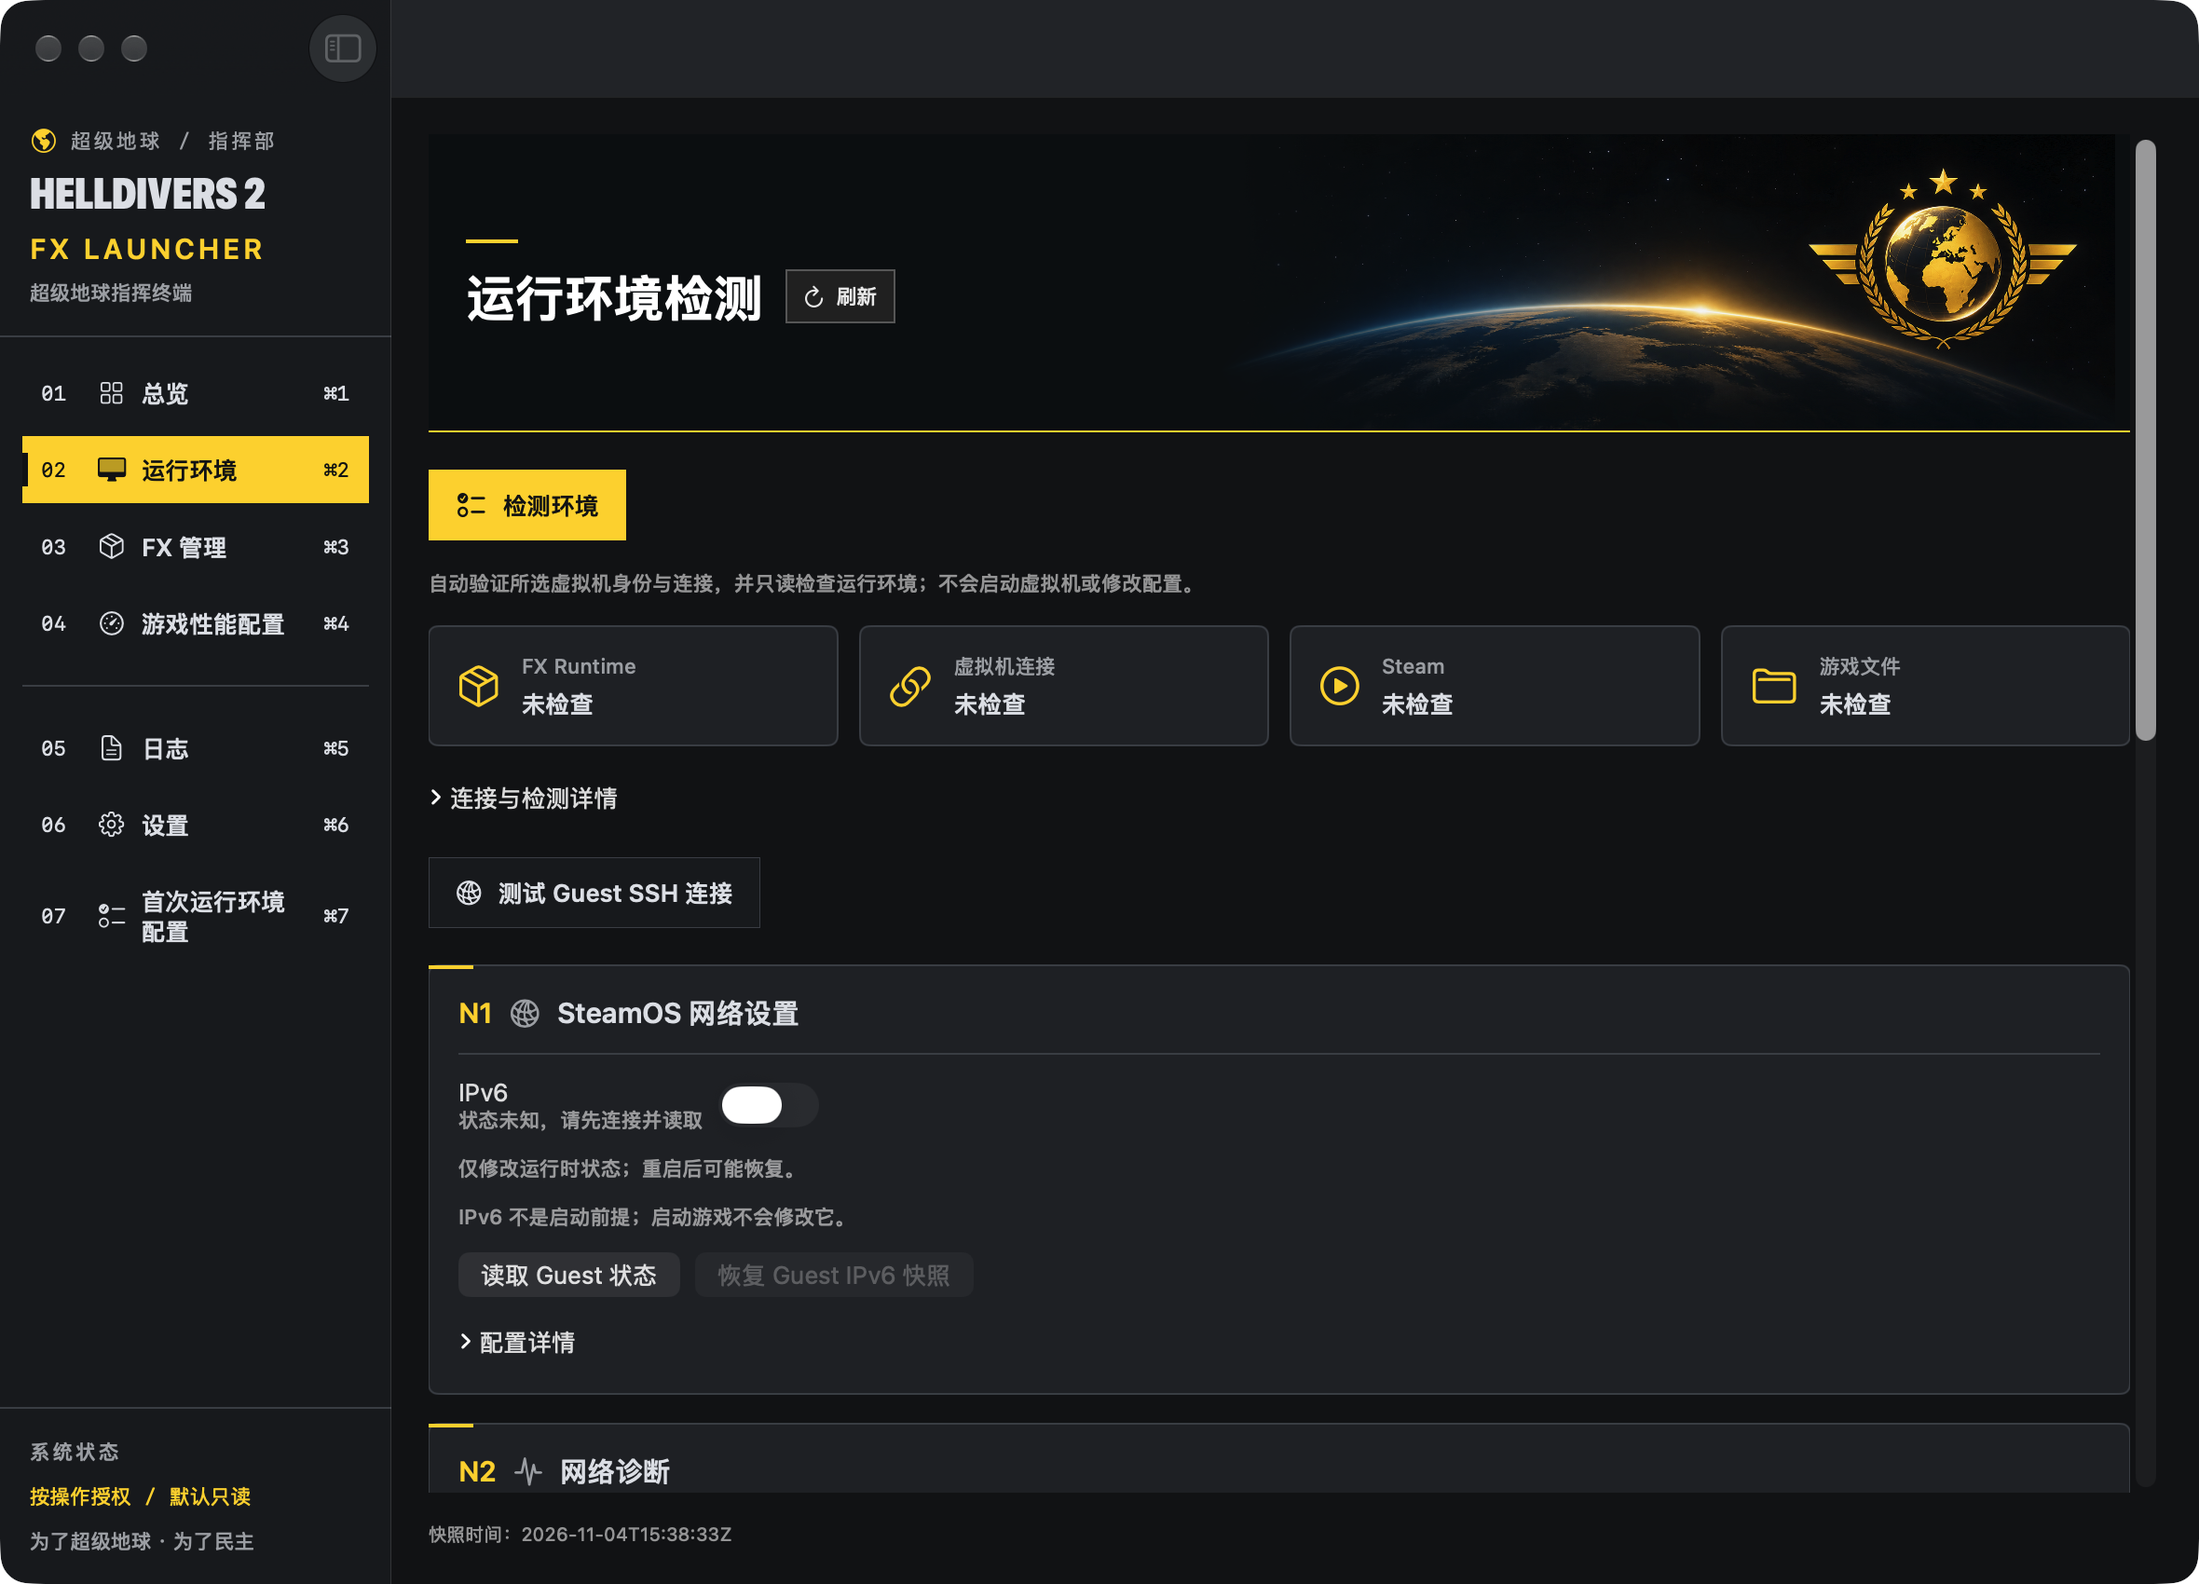
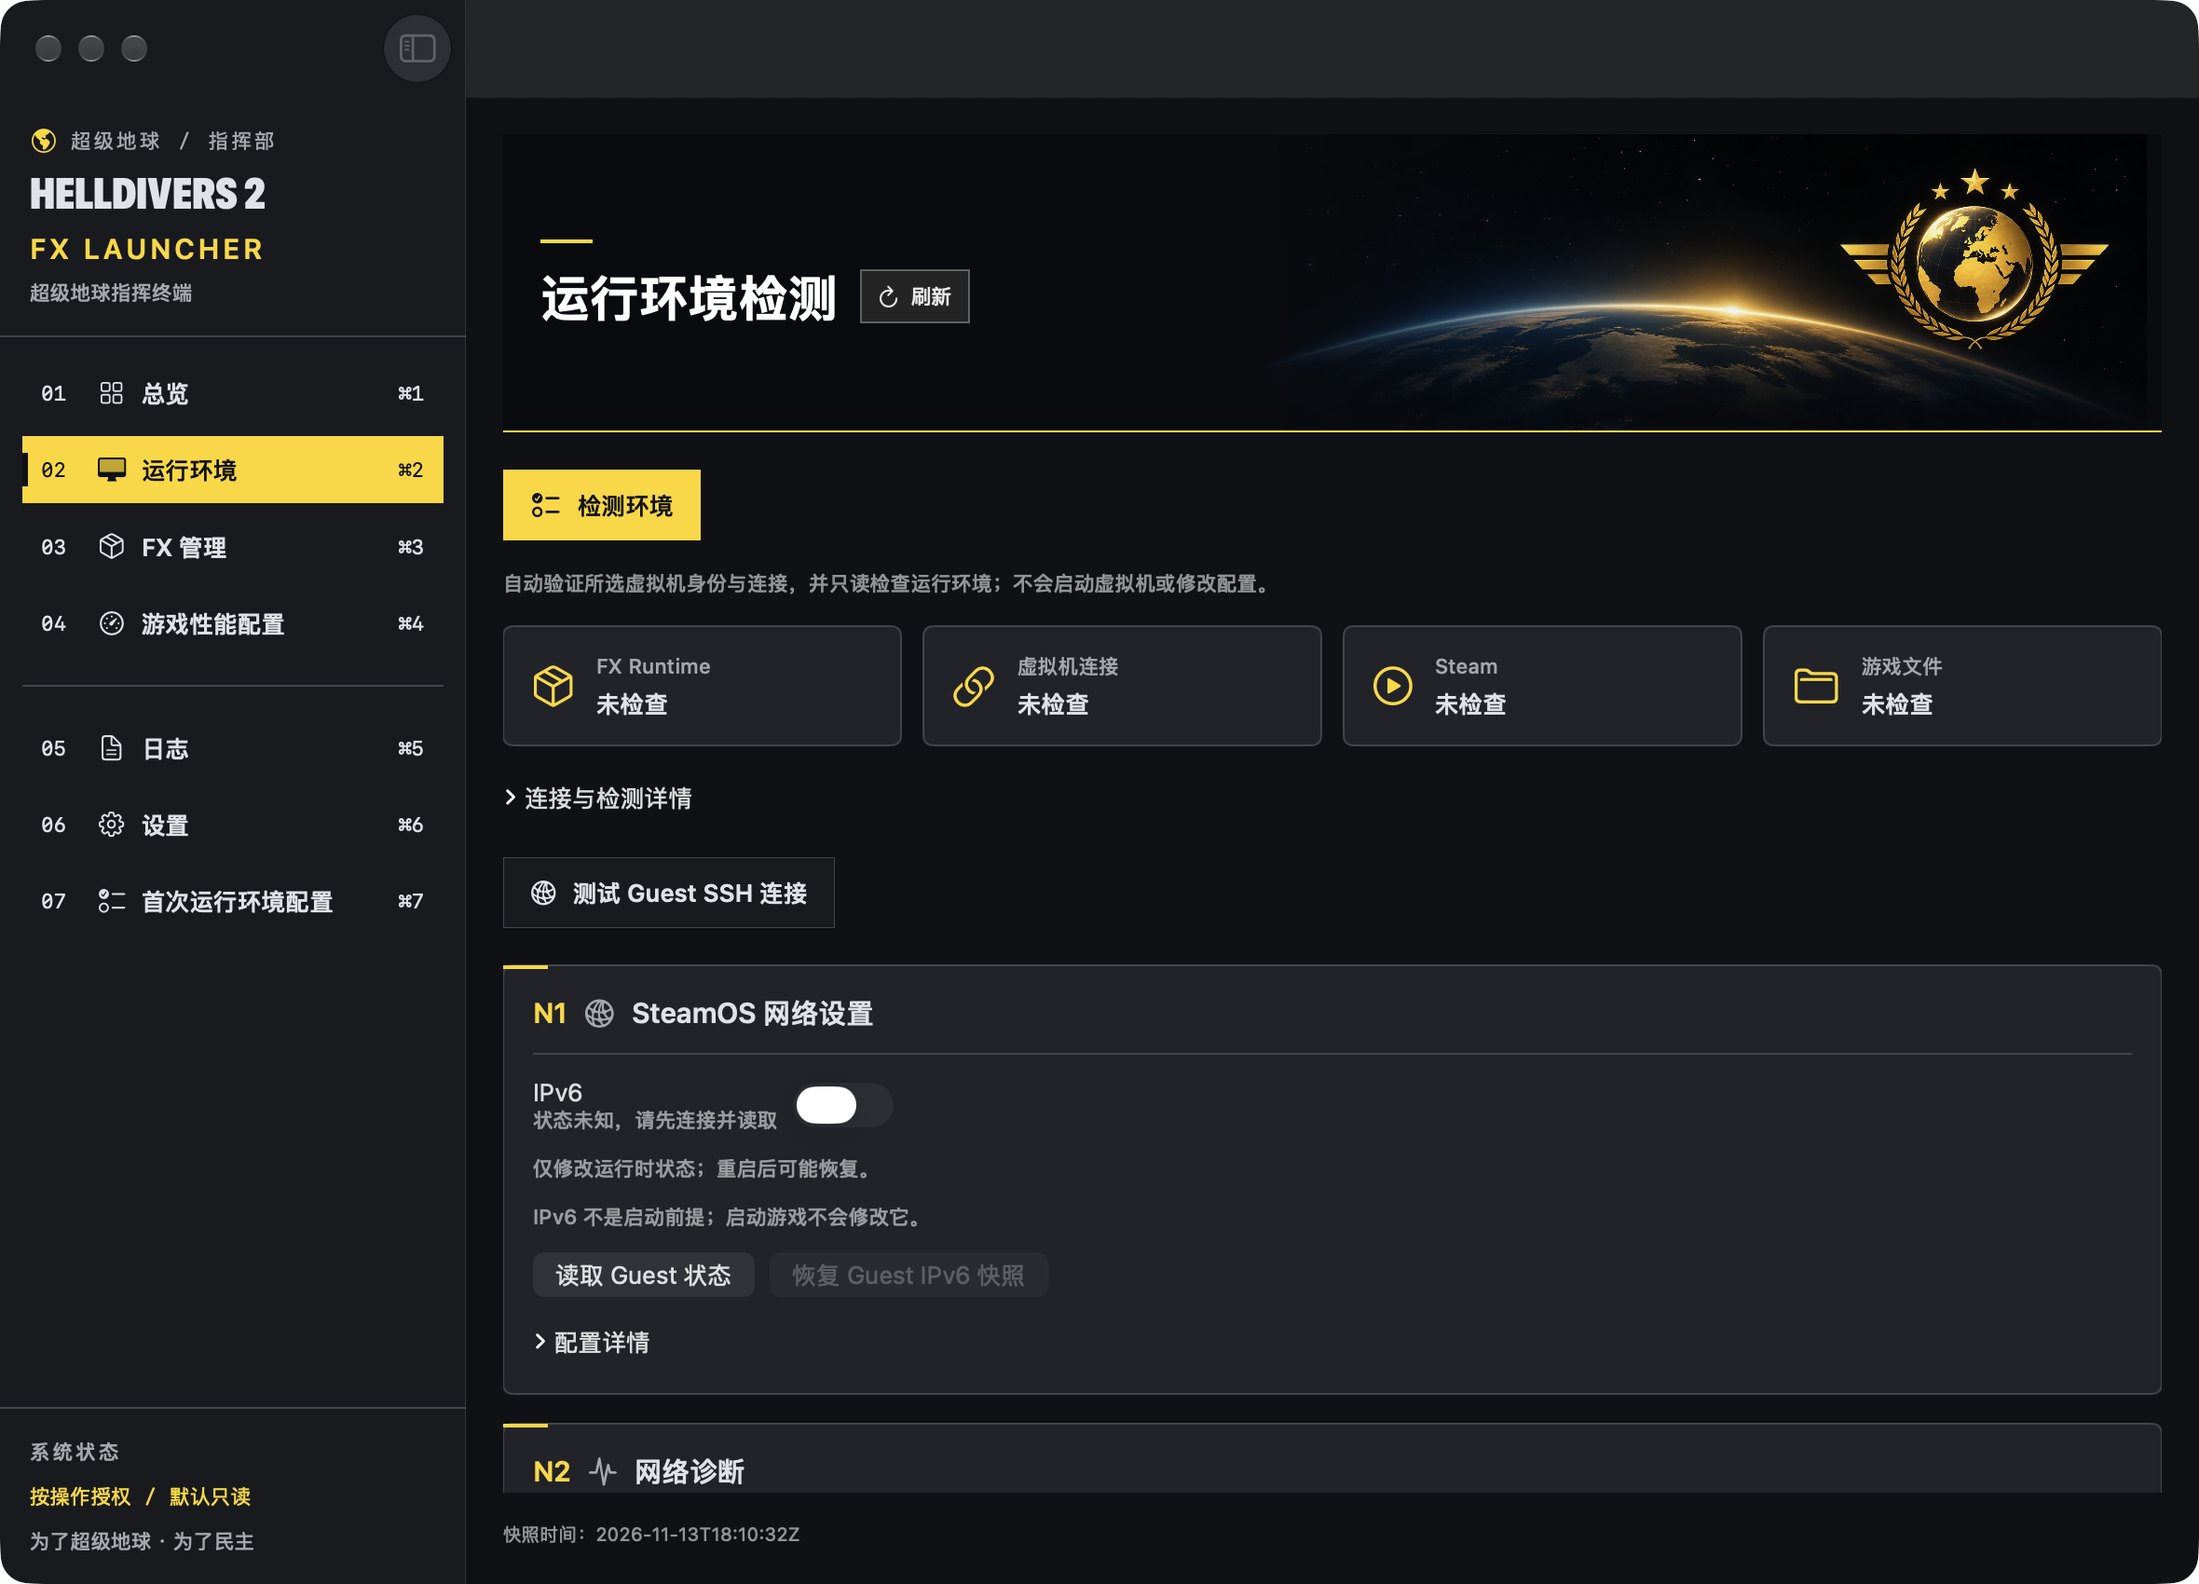
fix: isolate App SSH tunnels and refresh integration screenshots

diff --git a/native-app/Core/SSHTransport.swift b/native-app/Core/SSHTransport.swift
@@ -6,6 +6,29 @@ import Darwin
 final class SSHTransport {
     // Multiplexed authorization belongs to this App process, never another copy/restart.
     private static let namespace = "\(getpid())-" + String(UUID().uuidString.prefix(8))
+    // Keep each App process's Steam API tunnel separate from other running copies.
+    // OpenSSH still rejects a bind race and endpointIdentity verifies its ownership.
+    private static let automaticCDPPort: Int = {
+        let fd = socket(AF_INET, SOCK_STREAM, 0)
+        guard fd >= 0 else { return 18094 }
+        defer { close(fd) }
+        var address = sockaddr_in()
+        address.sin_family = sa_family_t(AF_INET)
+        address.sin_addr.s_addr = inet_addr("127.0.0.1")
+        let bound = withUnsafePointer(to: &address) {
+            $0.withMemoryRebound(to: sockaddr.self, capacity: 1) {
+                bind(fd, $0, socklen_t(MemoryLayout<sockaddr_in>.size))
+            }
+        }
+        guard bound == 0 else { return 18094 }
+        var length = socklen_t(MemoryLayout<sockaddr_in>.size)
+        let result = withUnsafeMutablePointer(to: &address) {
+            $0.withMemoryRebound(to: sockaddr.self, capacity: 1) {
+                getsockname(fd, $0, &length)
+            }
+        }
+        return result == 0 ? Int(UInt16(bigEndian: address.sin_port)) : 18094
+    }()
     private static let ownershipLock = NSLock()
     private static var owned: Set<String> = []
     private static var reconnected: [String: Settings] = [:]
@@ -39,7 +62,8 @@ final class SSHTransport {
         let host = ssh["host"]?.text ?? "127.0.0.1"
         let port = ssh["port"]?.integer ?? 2222
         let username = ssh["username"]?.text ?? "steamos"
-        let cdp = ssh["cdp_local_port"]?.integer ?? 18094
+        let configuredCDP = ssh["cdp_local_port"]?.integer ?? 18094
+        let cdp = configuredCDP == 18094 ? automaticCDPPort : configuredCDP
         let encoded = CoreJSON.encode(.object(["branch": .number(2), "host": .string(host),
                                                "port": .number(Double(port)), "user": .string(username),
                                                "cdp": .number(Double(cdp))]))

diff --git a/native-app/checks/SSHChecks.swift b/native-app/checks/SSHChecks.swift
@@ -27,6 +27,10 @@ import Darwin
         }
         let transport = SSHTransport.make(["ssh": .object(["host": .string("127.0.0.1"),
             "port": .number(2222), "username": .string("steamos"), "auth": .string("password")])])
+        check(SSHTransport.make([:]).settings.cdpLocalPort == SSHTransport.make([:]).settings.cdpLocalPort,
+              "automatic tunnel port is stable within this App process")
+        let customPort = SSHTransport.make(["ssh": .object(["cdp_local_port": .number(19094)])])
+        check(customPort.settings.cdpLocalPort == 19094, "explicit custom tunnel port is retained")
         let isolatedA = SSHTransport.isolatedSetup([:]), isolatedB = SSHTransport.isolatedSetup([:])
         check(isolatedA.settings.socketPath != isolatedB.settings.socketPath, "setup actions own distinct SSH masters")
         check(isolatedA.settings.socketPath != transport.settings.socketPath, "setup never occupies the launch tunnel socket")

diff --git a/AGENTS.md b/AGENTS.md
@@ -1,7 +1,7 @@
 # Native App development
 
-Instruction version: **v1.2.18** · Updated: **2026-11-14**.
-Change: require synchronized release documentation and verified automatic main integration.
+Instruction version: **v1.2.19** · Updated: **2026-11-14**.
+Change: authorize stable ad hoc arm64 publication after real acceptance and separate FEX compatibility from provenance.
 
 - Architecture: SwiftUI + narrowly scoped AppKit; one AppState and existing Service Layer. Refresh remains read-only. The functional migration permits allowlisted Core actions through the supervised Bridge, with explicit user initiation and consent for writes/launch/SSH. Unknown/unverified is never success. Development tests use isolated fixtures; real game/network/system changes require the corresponding user action.
 - Develop in an appropriate task branch or isolated worktree. Batch related changes and verify the affected behavior. Apply the Git workflow policy below when the task is complete.
@@ -71,3 +71,5 @@ Integration authorization: **HD2_NATIVE_FIRST_RUN_MAIN_LATEST_v1.0.0** · 2026-1
 Credential persistence override · 2026-11-05: The current user explicitly requests SSH/sudo passwords survive App restarts and explicitly forbids macOS Keychain. Supersede memory-only/Keychain remembering restrictions only for this feature. Use an installation-random AES-GCM key and authenticated encrypted per-target/per-role files in a private 0700 App Support directory with 0600 files; never put passwords or keys in the App bundle, source, plaintext settings, argv, env or logs. No SecItem/SecKeychain API access. Only actual password challenge plus verified Guest identity may save credentials. Persistent target binding includes canonical FX executable/content identity and SSH host/port/user/auth identity, while process/boot checks still apply to every live connection. Clear live authorization on identity change; keep passwords isolated across environments. Rejected/forgotten credentials receive durable no-reuse markers before deletion. Provide explicit deletion and visible storage errors; do not turn deletion or signing failures into silent success. Key file and ciphertext share current-user protection; this is not hardware-backed or protection against same-user malware. Existing historical snapshot assertions remain historical, not current policy.
 
 - Permanent documentation gate: For every new feature, menu or settings change, important fix, and release, review both READMEs, both CHANGELOGs, all ten Native languages, localized screenshots and GitHub Release Notes. Check feature documentation and translations during implementation. Update affected material in the same delivery. Capture each language from the matching real App, visually review it, and verify source/build provenance and hashes. Before publication, reconcile App version, README, CHANGELOG and Release Notes with the actual arm64 DMG, SHA-256, signing/notarization evidence and acceptance limits. After publication, access the stable Release and download URL and check the GitHub main README and both language links. Preserve unresolved known issues and keep unpublished work under Unreleased.
+
+Release authorization · 2026-11-14: Deliver v1.0.0 as a stable GitHub Release with an arm64 DMG, SHA-256 and authenticated update metadata after required live launch, install and upgrade acceptance. Use ad hoc signing without Developer ID or Apple notarization. Missing Apple credentials or notarization does not block this release. Keep Gatekeeper limitations explicit. Preserve existing saved-credential reuse. Installed FEX compatibility depends on bounded runtime checks with fingerprint-bound confirmation for unknown provenance. Fixed hash differences alone must not reject an installed FEX. Keep integrity hashes for downloads, change detection, cache invalidation and provenance. Preserve existing FEX and user data. This user authorization supersedes historical task restrictions on game/single-player/EAC/multiplayer acceptance, stable publication and safe main integration for this release. Retain independent evidence for each acceptance stage and stop publication on actual core, updater-security, installation, signature-structure or secret failures.

diff --git a/README.md b/README.md
@@ -27,7 +27,7 @@ For source builds, see the [development guide](docs/NATIVE_DEVELOPMENT.md).
 
 ### Screenshots
 
-These are real windows from different historical Debug builds, **not final v1.0.0 screenshots**. Final captures must be taken, reviewed and replaced after the final build; see [capture provenance](docs/images/README.md).
+These are real windows from the integration Debug build, **not final v1.0.0 screenshots**. Final captures must be taken, reviewed and replaced after the final build; see [capture provenance](docs/images/README.md).
 
 | Dashboard | First-Run Setup |
 | --- | --- |
@@ -43,11 +43,11 @@ These are real windows from different historical Debug builds, **not final v1.0.
 
 - Dashboard starts the guarded HELLDIVERS 2 launch workflow. FX Manager inspects the selected FX installation and exposes supported FX/Steam actions.
 - First-Run Setup checks Guest identity, runtime capabilities and component integrity. Approved configuration can install the pinned Proton-JE package, select a verified Steam compatibility tool and merge launch options while retaining custom arguments. Detection is read-only. Deployment and recovery require their own checks.
-- Environment reports FEX and Proton-JE evidence. SSH and sudo credentials can be reused separately in process memory within the verified target/session.
+- Environment reports FEX and Proton-JE evidence. SSH and sudo credentials are independently reused for a verified target/session, with installation-local encrypted storage for restart reuse.
 - The Swift App provides seven native pages, logs, scoped performance controls and ten interface languages. Optional SteamOS installation steps require Python 3.
 - Settings includes Sparkle update integration. Published update service and end-to-end installation have yet to be verified.
 
-The v1.0.0 integration candidate checks installed FEX files, execute permission, arm64 architecture and a bounded x86-64 execution probe. Unknown provenance requires confirmation tied to the current installation and file-tree fingerprint. A different fixed hash alone does not reject the candidate. This workflow has passed isolated checks; live acceptance and refreshed candidate screenshots are pending.
+The v1.0.0 integration candidate checks installed FEX files, execute permission, arm64 architecture and a bounded x86-64 execution probe. Unknown provenance requires confirmation tied to the current installation and file-tree fingerprint. A different fixed hash alone does not reject the candidate. This workflow has passed isolated checks; live acceptance remains pending.
 
 ### Known Issues
 

diff --git a/docs/images/README.md b/docs/images/README.md
@@ -45,3 +45,7 @@ Build 2026110410: real isolated Debug windows for zh-CN/en First-Run Setup, Dash
 2026-11-14 provenance gate update: referenced screenshots require App version, build, capture bundle identifier, timezone-aware capture time and a source commit (per-image or manifest baseline). Missing provenance fails validation. Final v1.0.0 captures remain pending.
 
 2026-11-14 来源门禁更新：README 引用截图必须包含 App 版本、构建号、采集包标识、带时区的时间和来源提交（逐图记录或清单基线）。缺失即校验失败。v1.0.0 正式构建截图仍待采集。
+
+2026-11-14 integration review: seven pages per language were recaptured from the real integration Debug build (08e58e4 plus FEX changes subsequently committed as 34fff90). Correct-language page pairs were reviewed together. No Guest action or credential autoload occurred. Final v1.0.0 Release captures remain pending.
+
+2026-11-14 整合审核：两种语言各七页已从真实整合 Debug 构建重拍（08e58e4 加随后提交为 34fff90 的 FEX 改动），逐对检查语言。未操作 Guest 或自动加载凭据。正式 Release 截图仍待完成。

diff --git a/CHANGELOG.md b/CHANGELOG.md
@@ -8,6 +8,8 @@ v1.0.0 is the release target. The inspected local arm64 App is `0.1.0` and ad ho
 
 ## Unreleased
 
+- Allocate a process-local loopback Steam API tunnel for the default forwarding port, avoiding conflicts with another running App copy. Explicit custom ports and endpoint ownership checks remain active.
+
 - Integration candidate separates installed FEX compatibility from provenance, with installation/fingerprint-bound confirmation and a bounded execution probe. Live acceptance remains pending.
 
 - Add a shared Home/setup preparation state machine, completed-step progress, folded maintenance controls and guarded continuation into game launch. Scope deployment revisions to managed values, reconcile exact externally restored receipts and separate approved installed FEX readiness from candidate review. Live acceptance remains incomplete.

diff --git a/CHANGELOG.zh-CN.md b/CHANGELOG.zh-CN.md
@@ -8,6 +8,8 @@ v1.0.0 为发布目标。已检查的本地 arm64 App 为 `0.1.0`，使用 ad ho
 
 ## 未发布
 
+- 默认 Steam API 转发端口改用进程专属的本机回环端口，避免与另一运行中的 App 副本冲突；保留自定义端口和端点归属验证。
+
 - 整合候选将已安装 FEX 的兼容性和来源分开判断，增加绑定安装及指纹的确认和有时限的执行探针。实机验收待完成。
 
 - 首页和首次配置共用准备状态机，显示已完成步骤进度，将维护操作收纳至折叠区域，并在验证后继续启动游戏。部署版本号仅比较管理项，精确核对外部恢复的收据，区分已审核安装的 FEX 就绪状态与候选审核。真实验收仍未完成。
